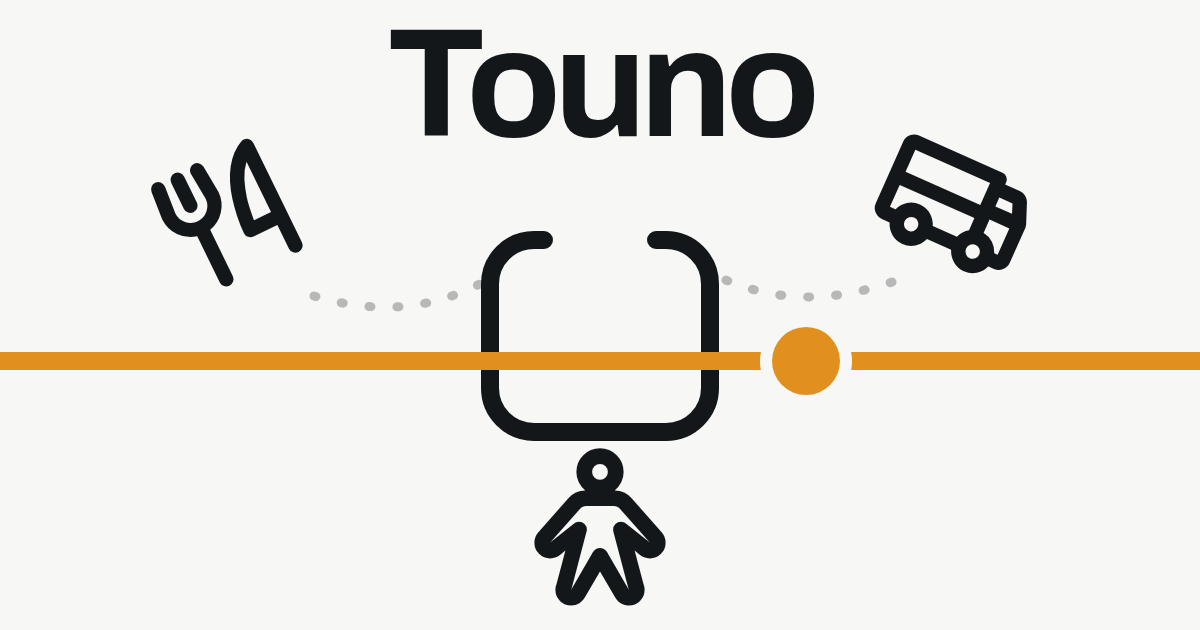
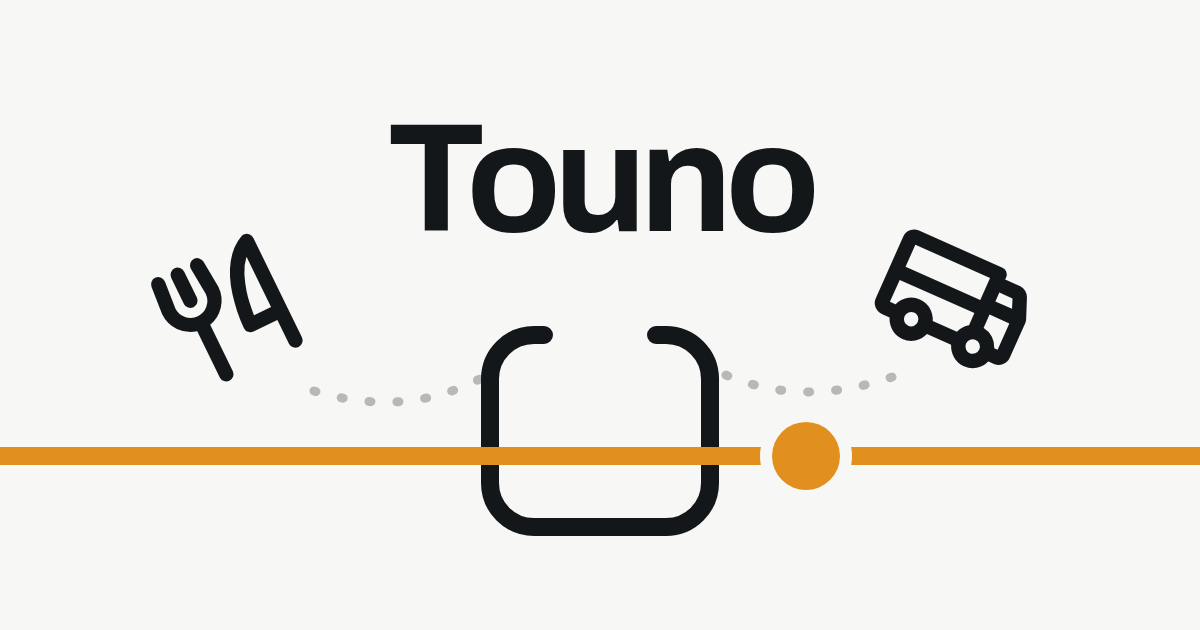
Drop the person from the card and recentre what is left
The card's fourth glyph goes, and with it the `.person` rule that placed it.
Removing it alone would have left the composition in the top two thirds with
a blank third under it, so everything else moves down 95px — wordmark,
cutlery, truck, both dotted trails, the parcel mark, the orange line and its
dot. Nothing changed size or angle; the whole drawing just sits in the middle
of the 1.91:1 frame again.

The README's reason for the card was stale. It said the most-shared Touno
link is `touno.bo/seguimiento/ty-4471`, and public parcel tracking was
retired — one page per sucursal is what replaced it as the indexable
surface. It names a sucursal's own URL now, and says in a line what it used
to say, so the next reader does not go looking for a route that is gone.

Claude-Session: https://claude.ai/code/session_01ADv4vnqsJ2c5AtJPo5AAE3

diff --git a/design/og/card.html b/design/og/card.html
@@ -44,12 +44,12 @@
       }
       .falling--food {
         left: 150px;
-        top: 138px;
+        top: 233px;
         transform: rotate(-26deg);
       }
       .falling--truck {
         left: 876px;
-        top: 124px;
+        top: 219px;
         transform: rotate(24deg);
       }
 
@@ -60,23 +60,11 @@
         z-index: 3;
       }
 
-      .person {
-        position: absolute;
-        left: 0;
-        right: 0;
-        top: 446px;
-        text-align: center;
-        font-size: 168px;
-        line-height: 1;
-        color: #14171a;
-        z-index: 4;
-      }
-
       .wordmark {
         position: absolute;
         left: 0;
         right: 0;
-        top: 8px;
+        top: 103px;
         text-align: center;
         font-size: 154px;
         font-weight: 700;
@@ -98,8 +86,8 @@
           stroke-linecap="round"
           stroke-dasharray="2 26"
         >
-          <path d="M 314 296 Q 440 334 538 242" />
-          <path d="M 892 282 Q 764 326 662 240" />
+          <path d="M 314 391 Q 440 429 538 337" />
+          <path d="M 892 377 Q 764 421 662 335" />
         </g>
       </svg>
 
@@ -108,18 +96,17 @@
 
       <svg class="layer art" viewBox="0 0 1200 630" xmlns="http://www.w3.org/2000/svg">
         <path
-          d="M 544 240 H 534 A 44 44 0 0 0 490 284 V 388 A 44 44 0 0 0 534 432 H 666 A 44 44 0 0 0 710 388 V 284 A 44 44 0 0 0 666 240 H 656"
+          d="M 544 335 H 534 A 44 44 0 0 0 490 379 V 483 A 44 44 0 0 0 534 527 H 666 A 44 44 0 0 0 710 483 V 379 A 44 44 0 0 0 666 335 H 656"
           fill="#f7f7f6"
           stroke="#14171a"
           stroke-width="18"
           stroke-linecap="round"
         />
-        <rect x="0" y="352" width="1200" height="18" fill="#e1901f" />
-        <circle cx="806" cy="361" r="46" fill="#f7f7f6" />
-        <circle cx="806" cy="361" r="34" fill="#e1901f" />
+        <rect x="0" y="447" width="1200" height="18" fill="#e1901f" />
+        <circle cx="806" cy="456" r="46" fill="#f7f7f6" />
+        <circle cx="806" cy="456" r="34" fill="#e1901f" />
       </svg>
 
-      <i class="person ph-bold ph-person"></i>
       <p class="wordmark">Touno</p>
     </div>
   </body>

diff --git a/public/og/README.md b/public/og/README.md
@@ -7,8 +7,13 @@ WhatsApp, Telegram, Facebook, X, Slack or iMessage. It is declared once, as `SIT
 drop the image and render the link as plain text.
 
 It matters more here than on an ordinary site, because the most-shared Touno link is not the
-landing page: it is `touno.bo/seguimiento/ty-4471`, which a seller copies from the shipment detail
-and sends to their buyer. That preview is the first time the recipient meets the brand.
+landing page: it is a sucursal's own, `touno.bo/restaurantes/pollos-copacabana/miraflores`, which
+a branch sends to its customers and a buyer forwards to whoever is eating with them. That preview
+is the first time the recipient meets the brand.
+
+**It used to say `touno.bo/seguimiento/ty-4471`.** Public parcel tracking was retired, and one page
+per sucursal is what replaced it as the indexable surface — so the link this card is drawn for
+changed with it.
 
 The source is `design/og/card.html`, drawn from the same parts the app uses — Archivo, the
 Phosphor bold glyphs and the identity's three colours — so the mark on the card and the mark in
